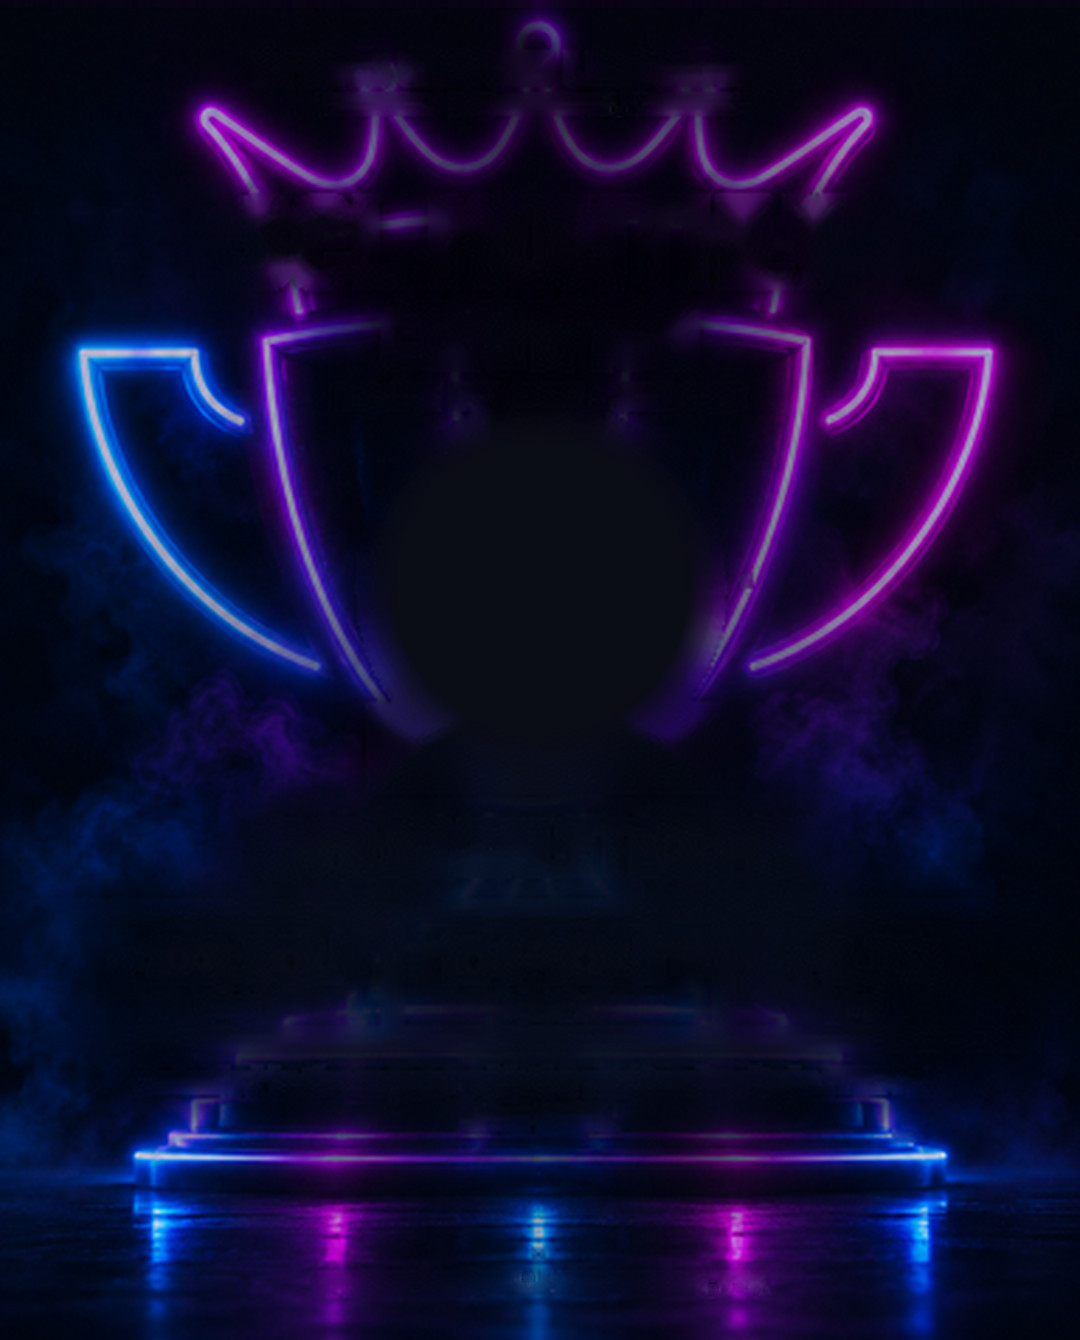
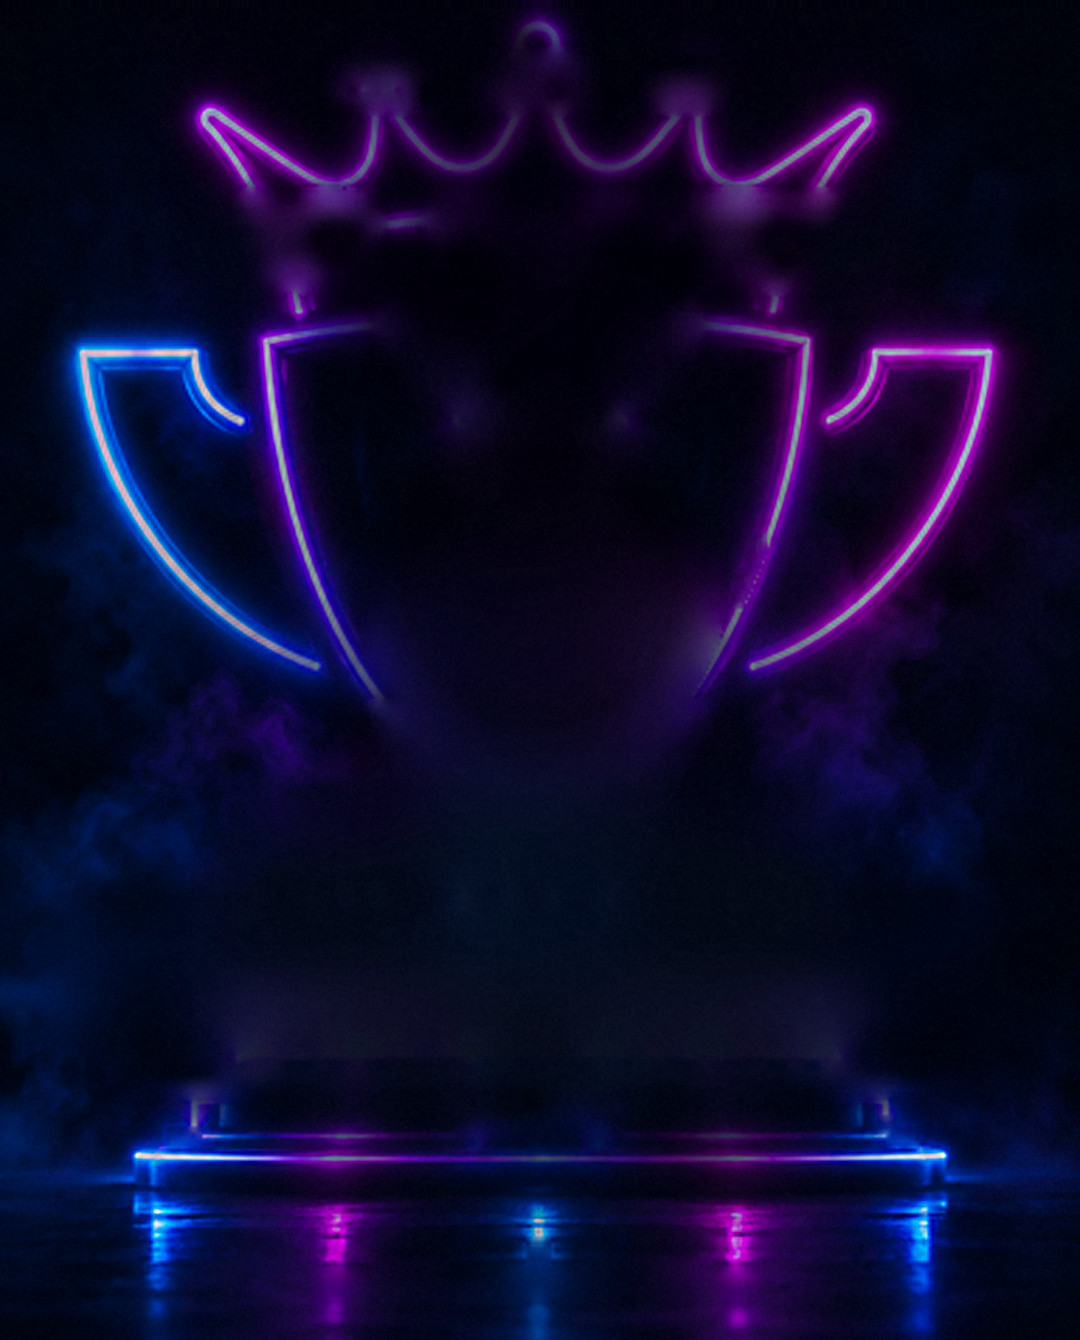
fix(honors): cleaner neon plate and a layout that holds for every award
Plate: the first pass left dark streaks where the reference's text drop
shadows were dragged sideways by the inpaint, a hard-edged disc behind
the emblem, and soft upscaled strokes. The plate is rebuilt with masks
that separate text (saturation < 40) from the near-white neon cores
(> 52), a smooth multi-scale fill, edge sharpening confined to the
strokes, light smoothing of JPEG blocking in the smoke, and fine grain.

Card:
- stats share one size stepped by the longest value; a 12-character
  record (1201-1088-44) no longer runs into its neighbours
- handle row and subtitle pill have fixed heights, so the stats band
  lands at the same y on the stage for every award and handle length
- subtitle sits on a scrim and steps down by length so it stays inside
  the cup; Supermax drops the period the ribbon below already names
- larger tagline, subtitle, stat labels, blurb and footer, which read
  at 4-6px in the 216-240px site cards
- dark shadow under the pink second title line where it crosses the
  cup handles; lit radial centre in the emblem

diff --git a/src/lib/og/honor-og-card.tsx b/src/lib/og/honor-og-card.tsx
@@ -10,7 +10,7 @@ import { OG } from "@/lib/og/tokens";
 import { CROSS_SPORTS } from "@/lib/parlay-sport";
 
 export const HONOR_OG_SIZE = { width: 1080, height: 1350 } as const;
-export const HONOR_OG_VERSION = "20261017a";
+export const HONOR_OG_VERSION = "20261017b";
 /** Display widths `/api/og/honor/[id]?w=` serves for on-site cards. */
 export const HONOR_GRAPHIC_WIDTHS = [360, 540, 720] as const;
 
@@ -42,7 +42,9 @@ function subtitle(award: HonorAward): string {
   const metric =
     award.metric === "units" ? "Highest net units" : "Highest ROI%";
   if (award.sport === SUPERMAX) {
-    return `Highest net units from Supermax plays · ${award.periodLabel}`;
+    // The ribbon right below names the period; repeating it here pushed the
+    // line past the cup's walls.
+    return "Highest net units from Supermax plays";
   }
   if (award.period === "annual") return `${metric} across all sports`;
   if (award.period === "season")
@@ -98,6 +100,8 @@ function Emblem({ award }: { award: HonorAward }) {
         borderRadius: 150,
         border: `12px solid ${PINK}`,
         backgroundColor: EMBLEM_BG,
+        backgroundImage:
+          "radial-gradient(circle at 50% 38%, #1D2A44 0%, #111A2A 58%, #0A101C 100%)",
         boxShadow:
           "0 0 0 4px rgba(255,101,203,.2), 0 0 44px rgba(208,0,160,.48), 0 16px 36px rgba(0,0,0,.62)",
       }}
@@ -107,13 +111,28 @@ function Emblem({ award }: { award: HonorAward }) {
   );
 }
 
+/**
+ * One size for all three stats, stepped down by the longest value: a third of
+ * the band is ~317px, which a 12-character record (`1201-1088-44`) overflows
+ * at full size.
+ */
+function statSize(values: string[]): number {
+  const longest = Math.max(...values.map((v) => v.length));
+  if (longest <= 8) return 58;
+  if (longest <= 10) return 52;
+  if (longest <= 11) return 47;
+  return 42;
+}
+
 function Stat({
   value,
   label,
+  size,
   divider,
 }: {
   value: string;
   label: string;
+  size: number;
   divider?: boolean;
 }) {
   return (
@@ -126,6 +145,7 @@ function Stat({
         justifyContent: "center",
         flex: 1,
         minWidth: 0,
+        height: 96,
       }}
     >
       {divider ? (
@@ -133,16 +153,17 @@ function Stat({
           style={{
             position: "absolute",
             left: 0,
-            top: 10,
+            top: 8,
             width: 2,
-            height: 76,
+            height: 80,
             backgroundColor: OG.line,
           }}
         />
       ) : null}
       <span
         style={{
-          fontSize: 50,
+          fontSize: size,
+          lineHeight: 1.05,
           color: OG.text,
           fontFamily: "Inter",
           letterSpacing: -2,
@@ -153,9 +174,9 @@ function Stat({
       <span
         style={{
           marginTop: 6,
-          fontSize: 21,
+          fontSize: 24,
           color: OG.mutedData,
-          letterSpacing: 4,
+          letterSpacing: 5,
           textTransform: "uppercase",
         }}
       >
@@ -163,6 +184,21 @@ function Stat({
       </span>
     </div>
   );
+}
+
+/**
+ * The subtitle sits between the cup's walls (~560px) and runs from 26
+ * characters (`Highest ROI% · 2025-26 season`) to 52 (Supermax), so it steps
+ * down rather than spilling across the neon.
+ */
+function subtitleStyle(text: string): {
+  fontSize: number;
+  letterSpacing: number;
+} {
+  if (text.length <= 30) return { fontSize: 30, letterSpacing: 3 };
+  if (text.length <= 38) return { fontSize: 27, letterSpacing: 2.5 };
+  if (text.length <= 46) return { fontSize: 24, letterSpacing: 2 };
+  return { fontSize: 22, letterSpacing: 1.5 };
 }
 
 function handleSize(handle: string): number {
@@ -185,6 +221,14 @@ export function HonorOgCard({
 }) {
   const [line1, line2] = titleLines(award);
   const { winner } = award;
+  const units = formatUnits(winner.units);
+  const record = formatRecord(
+    winner.record.w,
+    winner.record.l,
+    winner.record.p,
+  );
+  const roi = formatRoi(winner.roi);
+  const size = statSize([units, record, roi]);
   return (
     <div
       style={{
@@ -224,9 +268,10 @@ export function HonorOgCard({
       >
         <span
           style={{
-            fontSize: 38,
+            fontSize: 40,
             letterSpacing: 5,
             textTransform: "uppercase",
+            textShadow: "0 2px 14px rgba(0,0,0,.95)",
           }}
         >
           Sports Cappers Leaderboard
@@ -234,10 +279,11 @@ export function HonorOgCard({
         <span
           style={{
             marginTop: 2,
-            fontSize: 19,
-            letterSpacing: 7,
+            fontSize: 22,
+            letterSpacing: 6,
             color: OG.mutedData,
             textTransform: "uppercase",
+            textShadow: "0 2px 10px rgba(0,0,0,.95)",
           }}
         >
           Verified. Transparent. Trusted.
@@ -269,17 +315,24 @@ export function HonorOgCard({
             fontSize: 82,
             color: PINK_BRIGHT,
             letterSpacing: 1,
-            textShadow: "0 0 24px rgba(208,0,160,.35)",
+            textShadow:
+              "0 4px 18px rgba(0,0,0,.9), 0 0 24px rgba(208,0,160,.35)",
           }}
         >
           {line2}
         </span>
         <span
           style={{
-            marginTop: 18,
-            fontSize: 27,
-            letterSpacing: 4,
+            display: "flex",
+            alignItems: "center",
+            height: 46,
+            marginTop: 16,
+            padding: "0 20px 1px",
+            borderRadius: 8,
+            backgroundColor: "rgba(5,9,17,.62)",
+            lineHeight: 1,
             color: OG.mutedData,
+            ...subtitleStyle(subtitle(award)),
           }}
         >
           {subtitle(award)}
@@ -315,12 +368,17 @@ export function HonorOgCard({
         </div>
       </div>
 
+      {/* Fixed height: a long handle steps its type down, and the stats
+          below must still land on the stage whatever the handle's size. */}
       <span
         style={{
+          display: "flex",
+          alignItems: "center",
+          height: 90,
           marginTop: 20,
           maxWidth: 950,
           overflow: "hidden",
-          padding: "5px 22px 8px",
+          padding: "0 22px 3px",
           borderRadius: 8,
           backgroundColor: "rgba(5,9,17,.46)",
           fontSize: handleSize(winner.handle),
@@ -340,34 +398,27 @@ export function HonorOgCard({
           display: "flex",
           width: "100%",
           marginTop: 18,
-          padding: "18px 0 16px",
+          padding: "16px 0 14px",
           borderTop: `2px solid ${OG.line}`,
           borderBottom: `2px solid ${OG.line}`,
           backgroundColor: "rgba(5,9,17,.46)",
         }}
       >
-        <Stat value={formatUnits(winner.units)} label="Units" />
-        <Stat
-          value={formatRecord(
-            winner.record.w,
-            winner.record.l,
-            winner.record.p,
-          )}
-          label="Record"
-          divider
-        />
-        <Stat value={formatRoi(winner.roi)} label="ROI" divider />
+        <Stat value={units} label="Units" size={size} />
+        <Stat value={record} label="Record" size={size} divider />
+        <Stat value={roi} label="ROI" size={size} divider />
       </div>
 
       <span
         style={{
-          marginTop: 23,
-          maxWidth: 880,
+          marginTop: 20,
+          maxWidth: 900,
           fontFamily: "Inter",
-          fontSize: 28,
-          lineHeight: 1.25,
+          fontSize: 30,
+          lineHeight: 1.22,
           color: OG.mutedData,
           textAlign: "center",
+          textShadow: "0 2px 12px rgba(0,0,0,.9)",
         }}
       >
         {blurb(award)}
@@ -377,8 +428,8 @@ export function HonorOgCard({
         style={{
           marginTop: "auto",
           alignSelf: "center",
-          fontSize: 23,
-          letterSpacing: 7,
+          fontSize: 25,
+          letterSpacing: 6,
           color: OG.mutedData,
           textTransform: "uppercase",
           textShadow: "0 2px 8px rgba(0,0,0,.9)",
